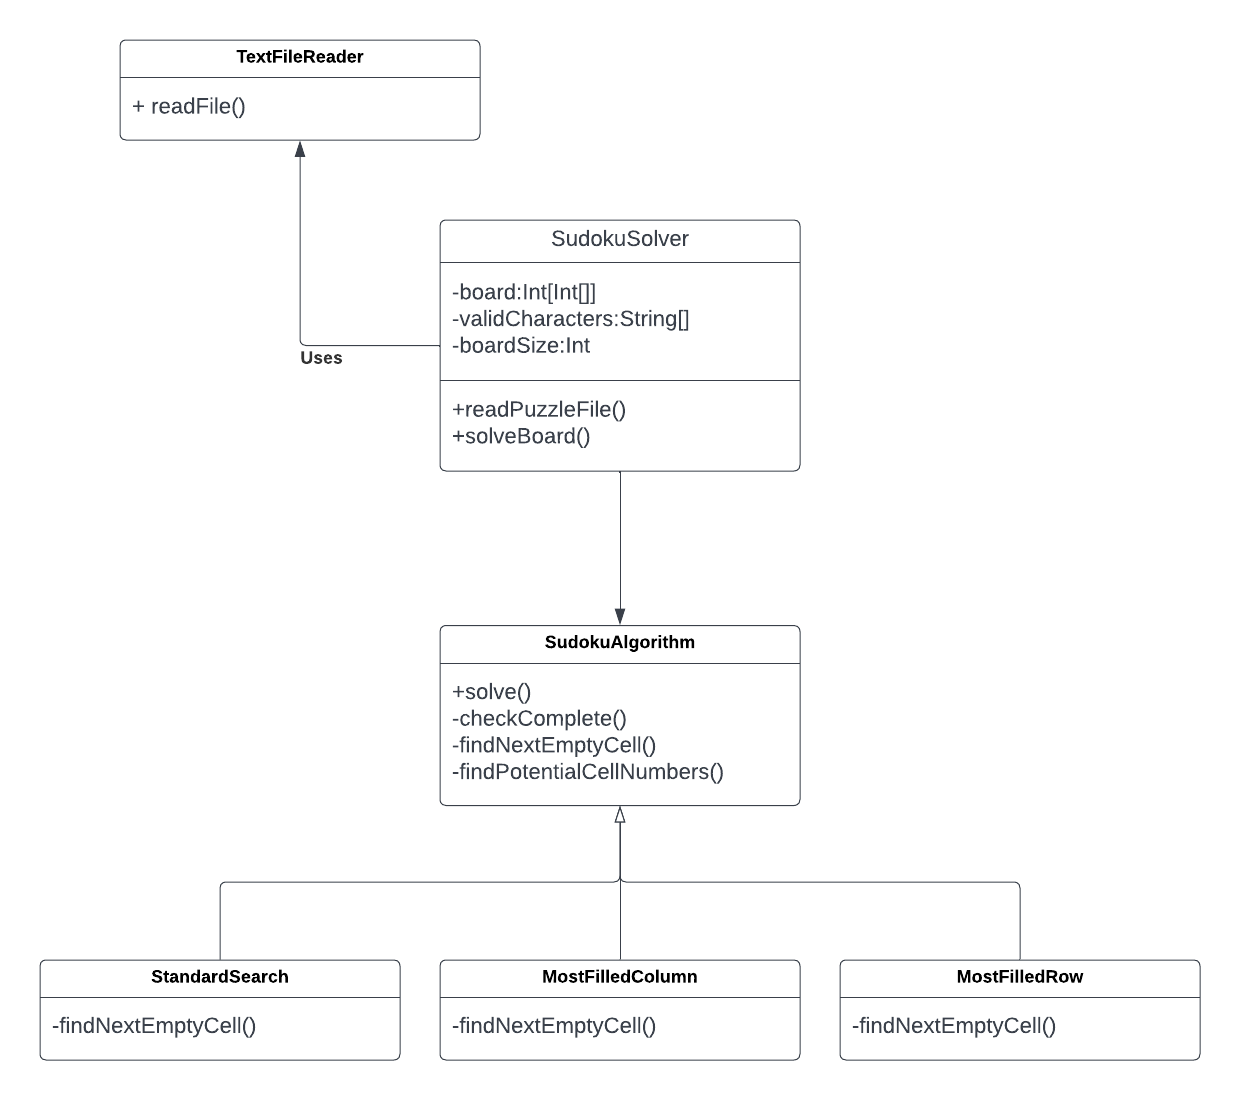
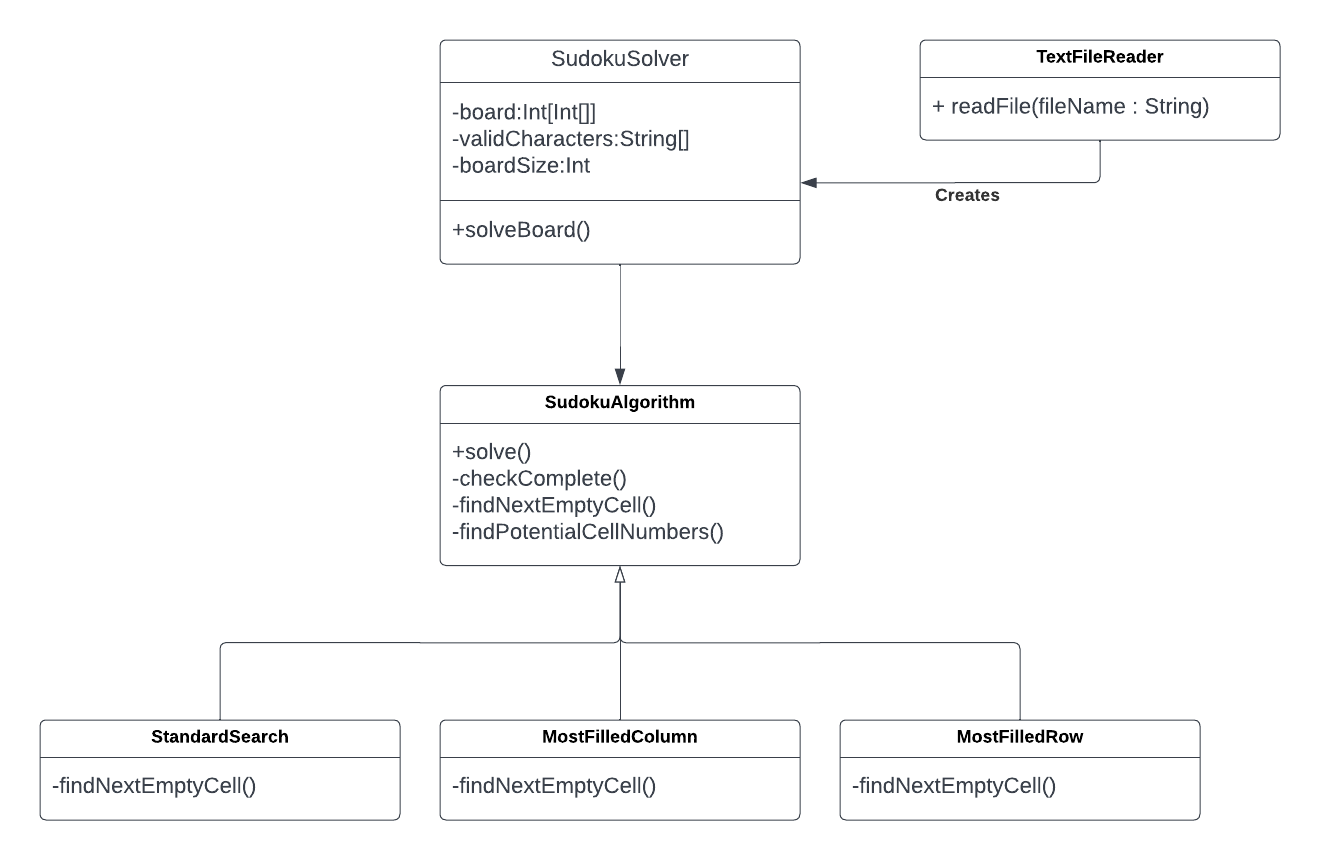
Updated UML

diff --git a/SudokuSolver/src/main/kotlin/SudokuFileReader.kt b/SudokuSolver/src/main/kotlin/SudokuFileReader.kt
@@ -1,0 +1,11 @@
+import java.io.File
+
+class TextFileReader {
+    fun readFile(fileName : String) {
+        var lines : List<String> = File(fileName).readLines()
+        if (lines.last() == "") {
+            lines = lines.dropLast(1)
+        }
+        println(lines)
+    }
+}
